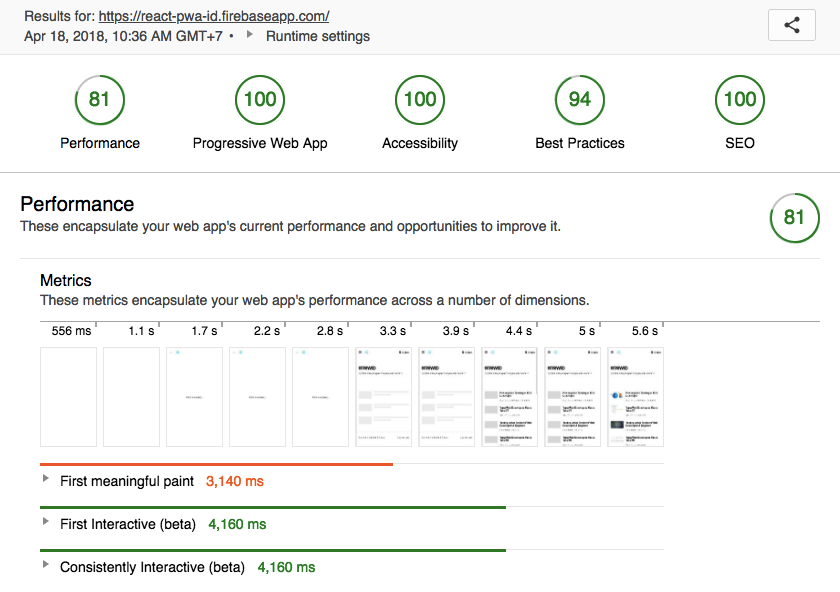
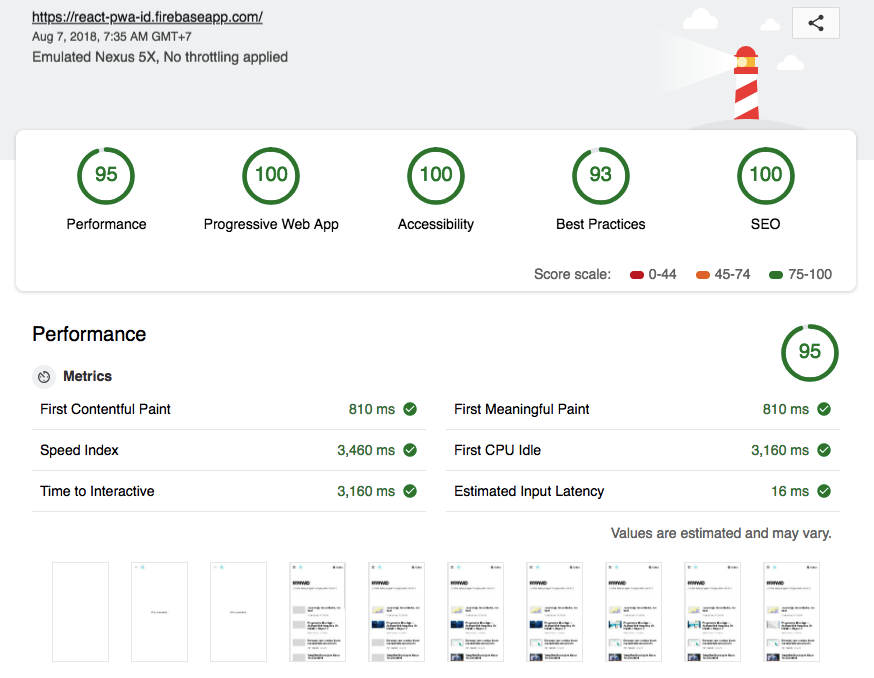
Update readme

diff --git a/README.md b/README.md
@@ -14,7 +14,7 @@ See webpagetest.org performance test in 4/16/2018, 4:23:51 PM [Click here](https
 
 <img src="assets/screenshot-lighthouse.png" />
 
-See webpagetest.org lighthouse score in Apr 16, 2018, 4:19 PM GMT+7 [Click here](https://www.webpagetest.org/result/180418_VB_1859723cfb49355a9511dbe942b81b64/)
+See webpagetest.org lighthouse score in Aug 7, 2018, 7:35 AM GMT+7 [Click here](https://www.webpagetest.org/result/180807_ZA_820339d4ec6019b971718910304f3d19/)
 
 ## Features
 - [x] PWA - Progressive Web Application
